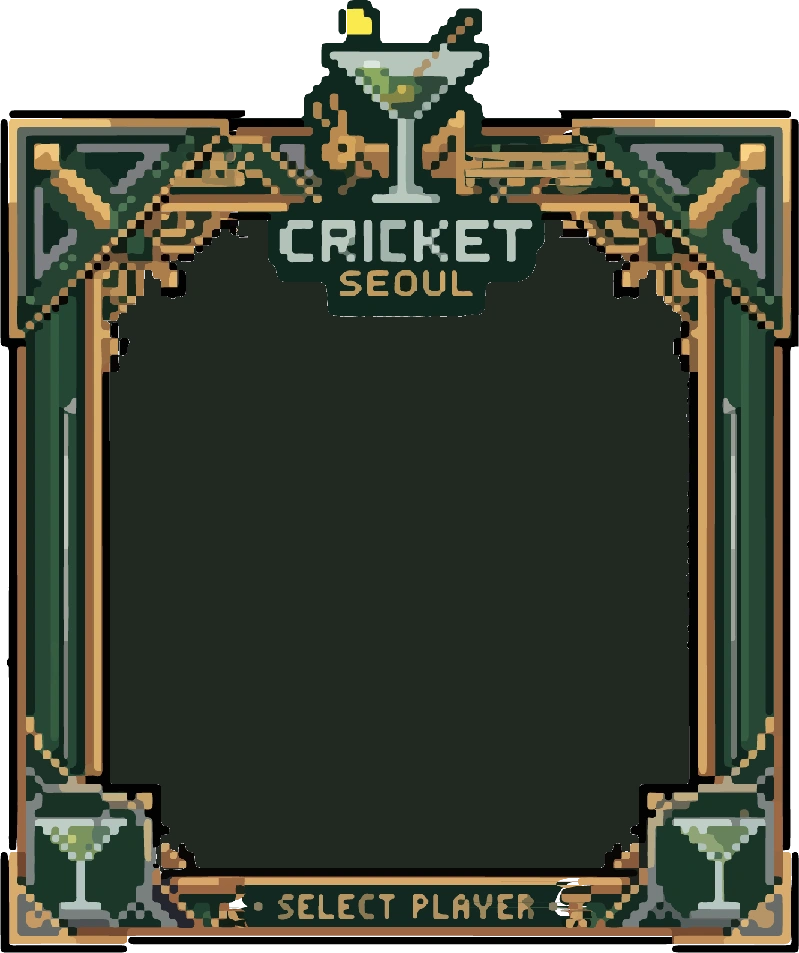
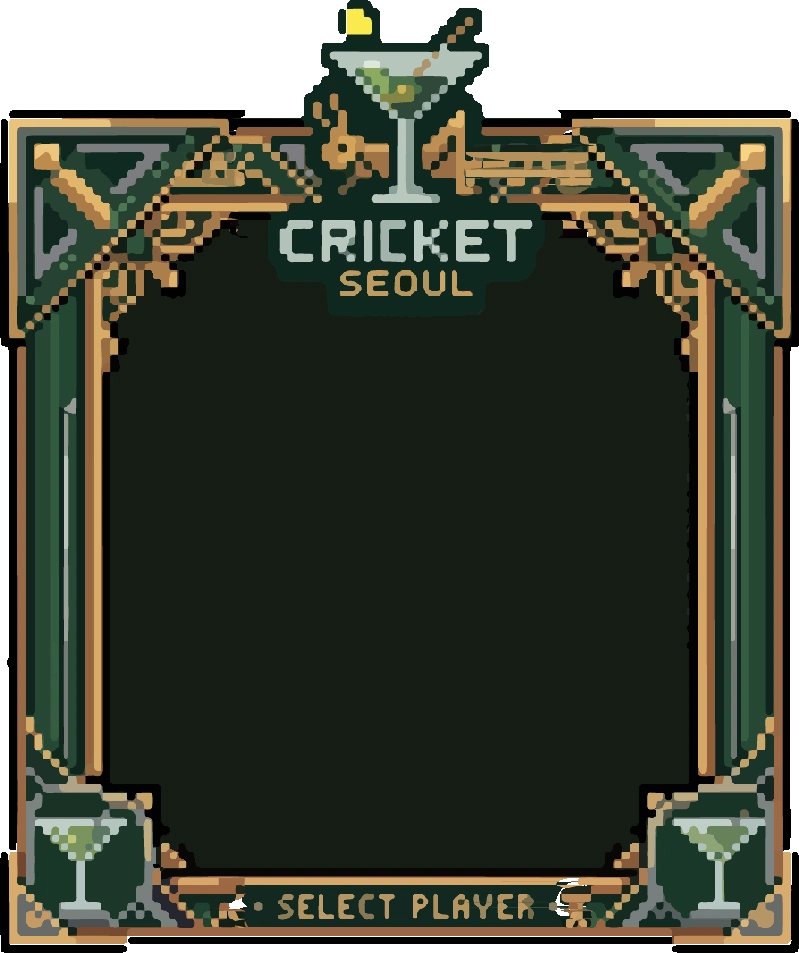
크리켓 경주: 결과 화면 중복 이름 제거, 선택 프레임의 하얀 줄 제거

Changed region(s): [[0.9912, 0.1217, 1.0, 0.3652], [0.9312, 0.9129, 1.0, 1.0], [0.0601, 0.9738, 0.0901, 1.0]]

diff --git a/cricket/race.html b/cricket/race.html
@@ -97,8 +97,6 @@ body{background:var(--dark);color:var(--ink);font-family:"Iowan Old Style","Appl
 .res.on{display:flex}
 .resin{background:var(--paper);border-radius:16px;padding:24px 20px;max-width:340px;width:100%;text-align:center}
 .res .win{font-variant-caps:small-caps;letter-spacing:.1em;font-size:12px;color:var(--mut)}
-.res .wn{margin:4px 0 10px}
-.res .wn img{width:min(62%,190px);height:auto;image-rendering:pixelated}
 .res img.wp{height:120px;image-rendering:pixelated;margin-bottom:6px}
 .res ol{text-align:left;margin:14px 0 0;padding-left:22px;font-size:13.5px;color:var(--ink2);line-height:1.9}
 .res .pen{margin-top:14px;font-size:13px;color:#8a3b2a;background:#8a3b2a14;border:1px dashed #8a3b2a55;
@@ -161,7 +159,7 @@ body{background:var(--dark);color:var(--ink);font-family:"Iowan Old Style","Appl
 .mdotm{border-radius:0!important;border:2px solid #fffaf0;box-shadow:none;transition:left .18s linear}
 .card{border-radius:0!important}
 /* ===== 우승 프레임과 빛 ===== */
-.champ{position:relative;width:min(96%,330px);aspect-ratio:1372/1056;margin:0 auto 4px;
+.champ{position:relative;width:min(96%,330px);aspect-ratio:1372/1056;margin:0 auto 12px;
   background:url("ui_champ.webp") center/100% 100% no-repeat}
 .chin{position:absolute;left:15.1%;right:15.2%;top:35%;bottom:17.2%;
   display:flex;align-items:flex-end;justify-content:center;overflow:hidden;z-index:0}
@@ -278,7 +276,6 @@ body{background:var(--dark);color:var(--ink);font-family:"Iowan Old Style","Appl
       <i class="sp d"></i><i class="sp e"></i><i class="sp f"></i>
     </div>
   </div>
-  <div class="wn" id="wn">—</div>
   <ol id="rank"></ol>
   <div class="pen" id="pen"></div>
   <button class="imgb" id="again"><img src="btn_race.webp" alt="Race again"></button>
@@ -1057,7 +1054,6 @@ function drawBoard(){
 /* ===== 결과 ===== */
 function showResult(){
  const w=finished[0], last=finished[finished.length-1];
- document.getElementById("wn").innerHTML='<img src="nm_'+w.c.name.toLowerCase()+'.webp" alt="'+w.c.name+'">';
  document.getElementById("wp").src="sprites/"+w.c.id+"_"+(w.c.frames-1)+".png";
  const rk=document.getElementById("rank"); rk.innerHTML="";
  finished.forEach((r,i)=>{